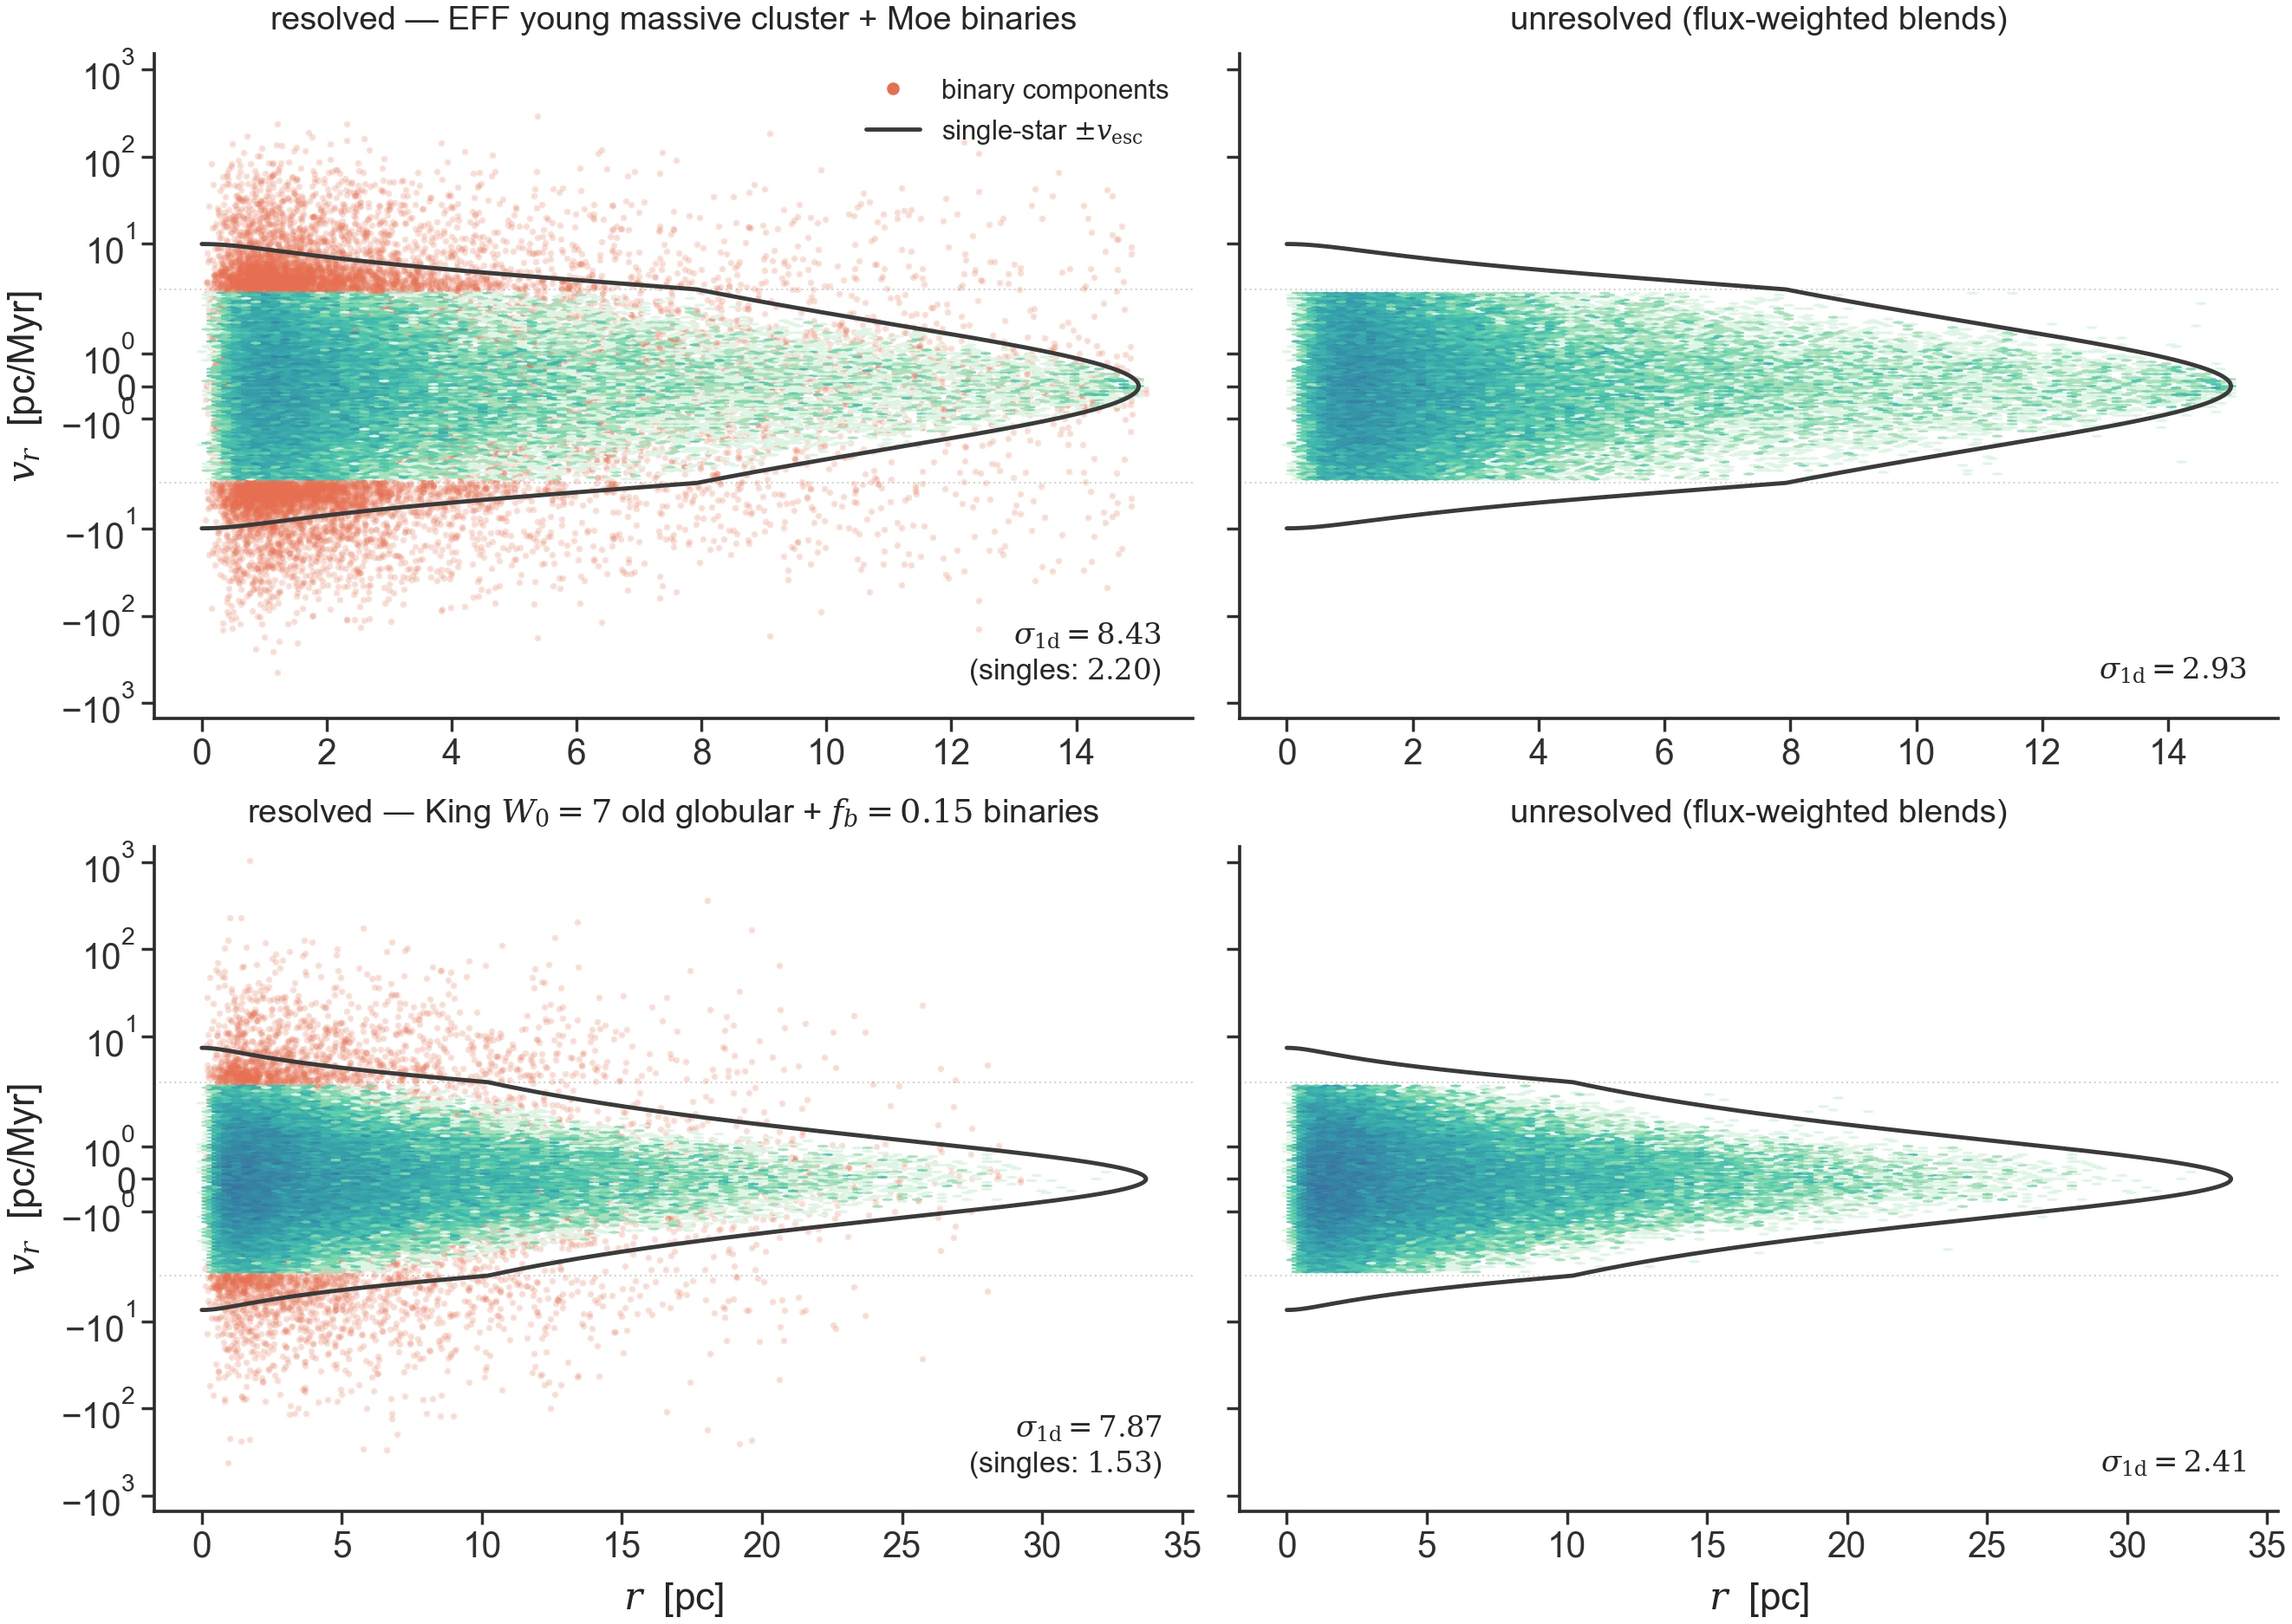
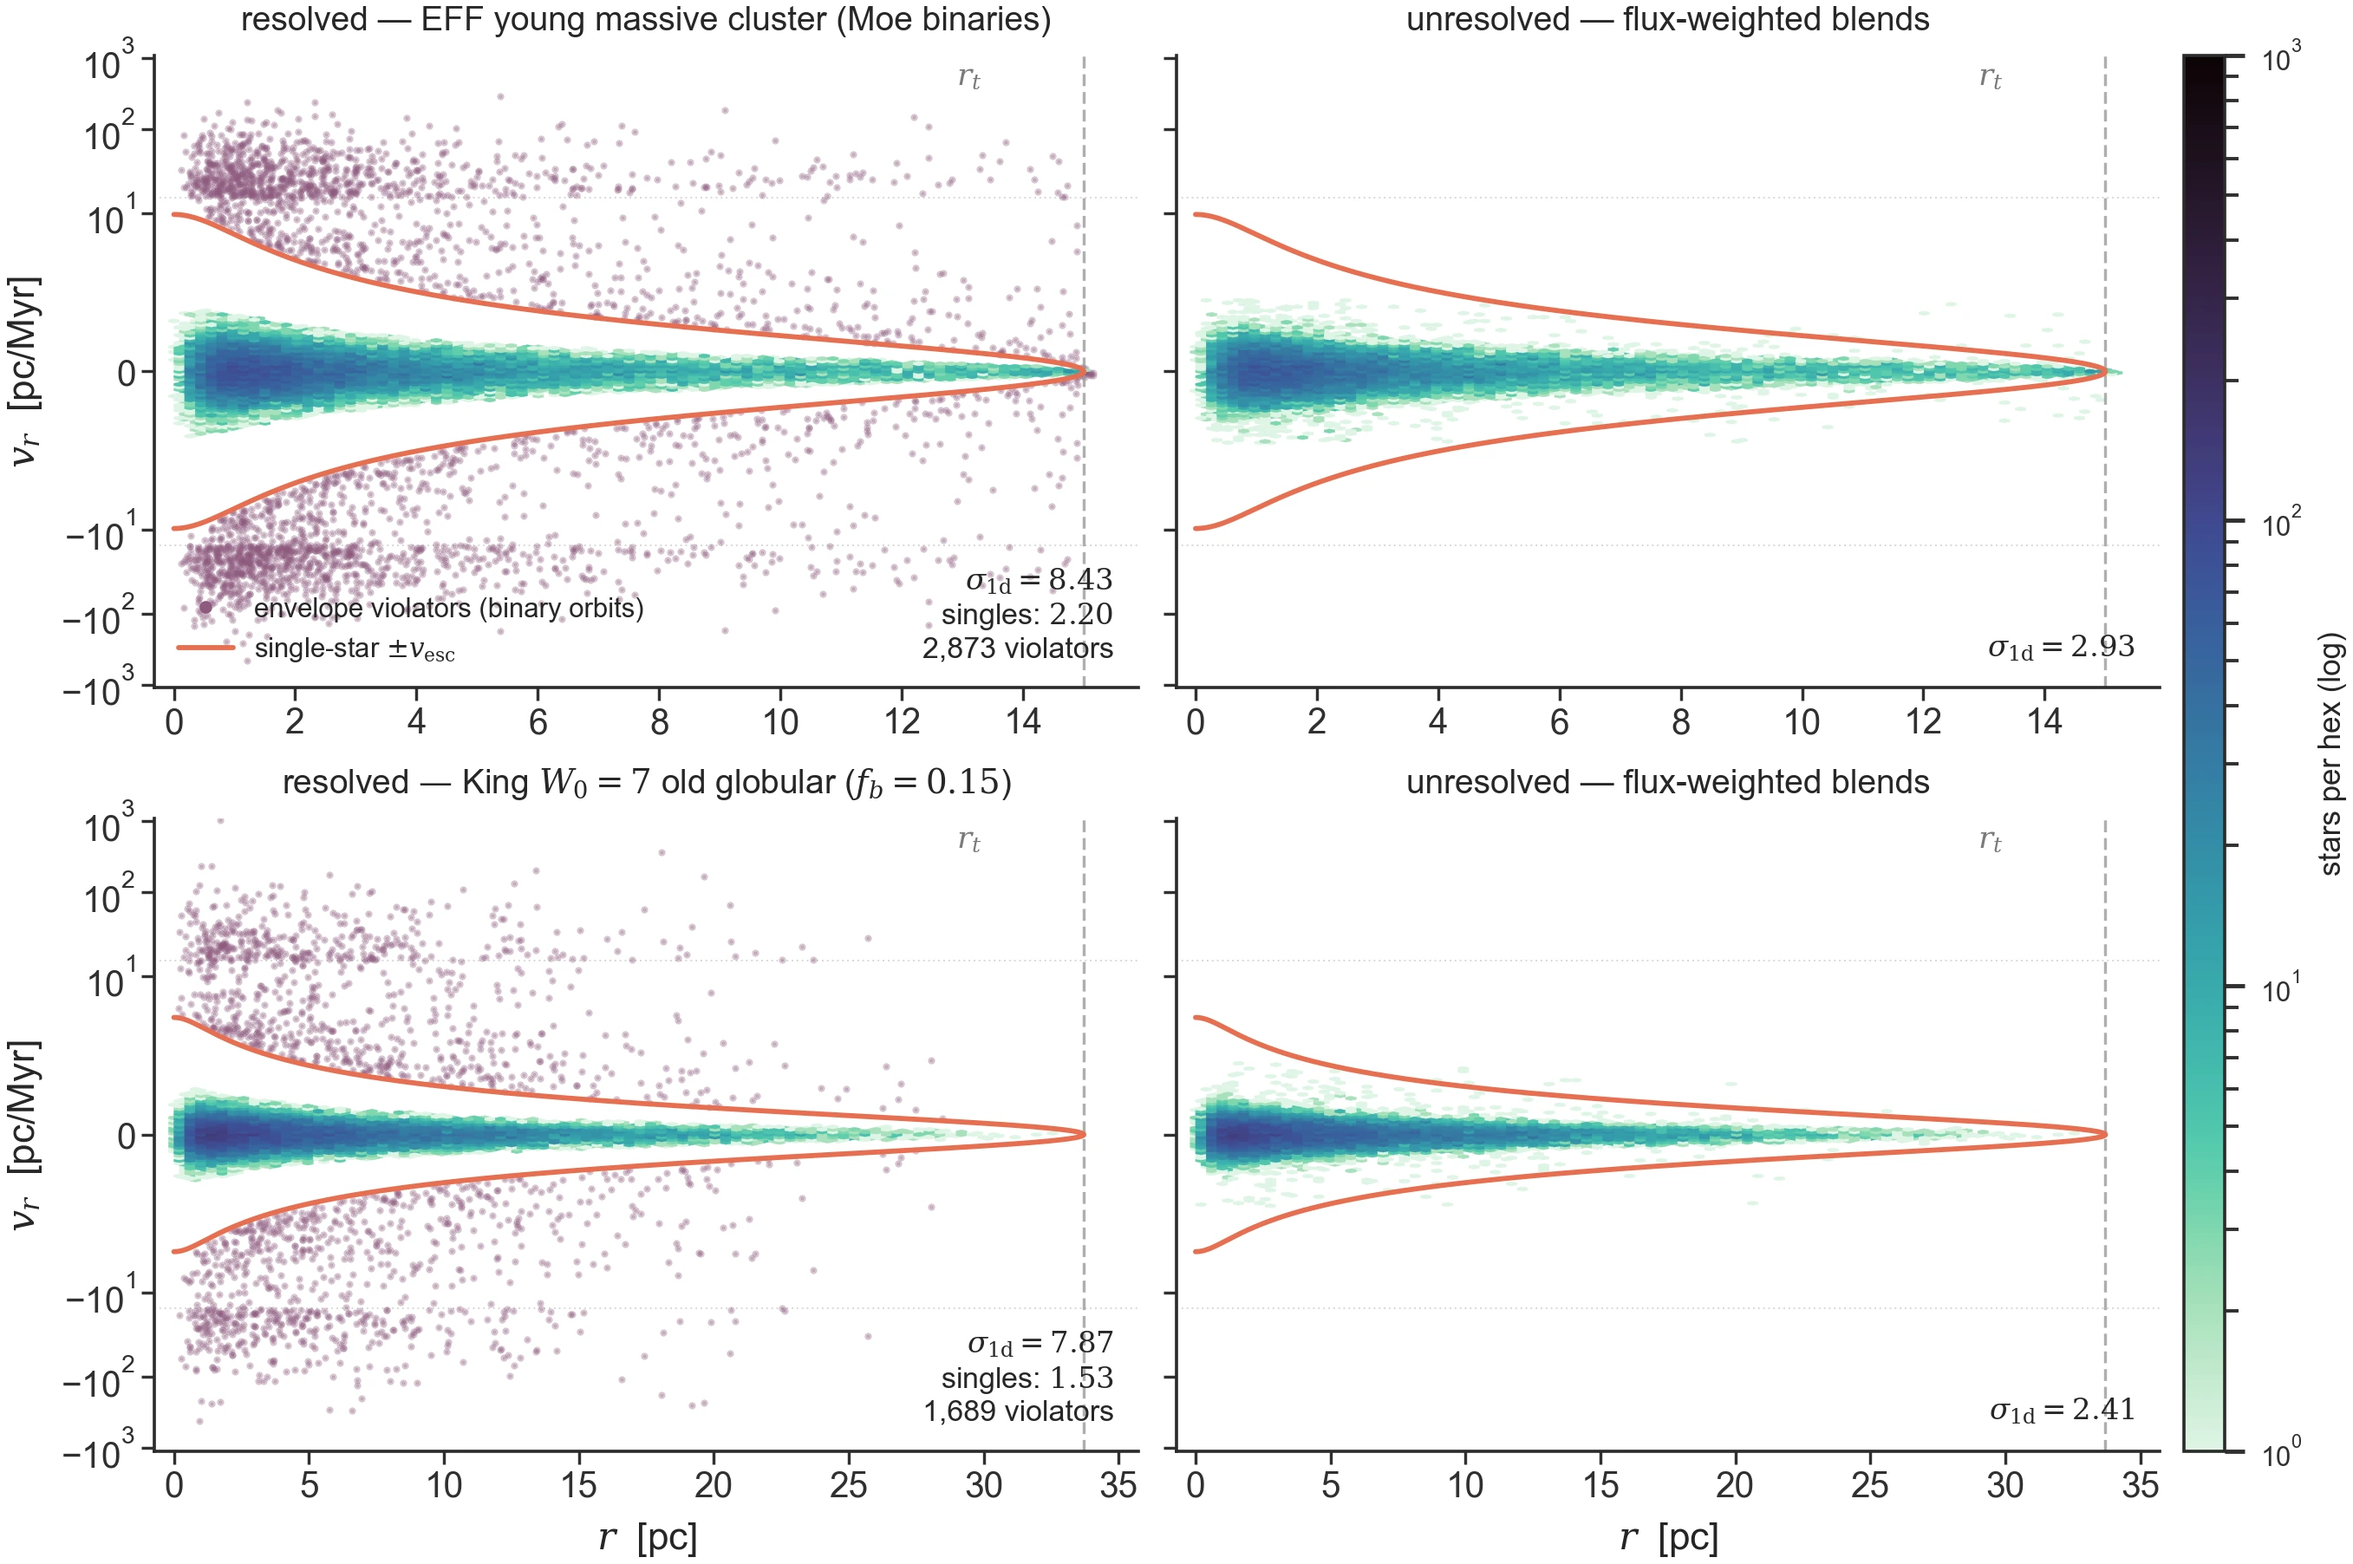
fix(icviz): F12 restyle per Anna — F11 visual language + violator semantics
- Coral +/- v_esc envelopes, shared log colorbar, grey dashed r_t markers:
  the binary figure now speaks the same visual language as the single-
  population phase plot.
- Binaries plum (#8E5A7F), not orange (envelope owns coral).
- DATA-HONESTY fix from self-review: the old +/-3.2 hexbin extent silently
  clipped bound singles with |v_r| in (3.2, v_esc~10]. The linear zone now
  spans the full envelope (linthresh 11), and the plum scatter marks ONLY
  true envelope violators (|v_r| > v_esc(r)) with in-panel counts (2,873 EFF
  / 1,689 King) — crisper semantics: those stars CANNOT be bound singles.
- Legend moved off the r_t annotation; caption updated incl. the real
  blend-leak subtlety (near-equal-luminosity pairs keep ~half their orbital
  velocity, so a few blends still exceed the envelope).

Docs gate PASS; ruff clean.

diff --git a/laboratory/icviz/binaries_phase.py b/laboratory/icviz/binaries_phase.py
@@ -88,16 +88,19 @@ def build_binary_phase_space() -> plt.Figure:
 
     setup_style()
     fig, axes = plt.subplots(
-        2, 2, figsize=(7.6, 5.4), constrained_layout=True, sharey="row"
+        2, 2, figsize=(7.8, 5.2), constrained_layout=True,
+        sharey=True, sharex="row",
     )
     cmap = sns.color_palette("mako_r", as_cmap=True)
     hex_norm = LogNorm(vmin=1, vmax=1e3)
+    env_color = "#E76F51"   # same coral as the single-population phase plot
+    binary_color = "#8E5A7F"  # plum (palette NEGATIVE) — distinct from teal/coral
     key = jax.random.PRNGKey(SEED)
     k_eff, k_king = jax.random.split(key)
 
     populations = [
         (
-            "EFF young massive cluster + Moe binaries",
+            "EFF young massive cluster (Moe binaries)",
             EFFProfile(a=1.0, gamma=4.0, r_t=15.0),
             EFFVelocityDF(a=1.0, gamma=4.0, r_t=15.0),
             MoeCompanions(),
@@ -105,7 +108,7 @@ def build_binary_phase_space() -> plt.Figure:
             15.0,
         ),
         (
-            r"King $W_0=7$ old globular + $f_b = 0.15$ binaries",
+            r"King $W_0{=}7$ old globular ($f_b = 0.15$)",
             KingProfile.from_W0_rc(W0=7.0, r_c=1.0),
             KingVelocityDF(W0=7.0, r_c=1.0),
             IndependentCompanions(
@@ -119,80 +122,87 @@ def build_binary_phase_space() -> plt.Figure:
         ),
     ]
 
+    hb = None
     for row, (title, prof, df, companions, k, r_max_in) in enumerate(populations):
         ic = build_binary_cluster(
             prof, df, Maschberger(), companions, Systems(_N_SYS), k, units=STELLAR
         )
         M_tot = float(jnp.sum(ic.masses))
-        r_max = float(getattr(prof, "r_t", r_max_in) or r_max_in)
+        r_t = float(getattr(prof, "r_t", r_max_in) or r_max_in)
+        r_max = r_t * 1.06
 
         # single-star escape envelope in THIS population's realized mass
-        r_grid = np.linspace(1e-4, r_max, 6000)
+        r_grid = np.linspace(1e-4, r_t, 6000)
         psi = _psi_from_density(prof, r_grid, M_tot)
         env = np.sqrt(2.0 * np.clip(psi, 0.0, None))
 
         is_pair = np.bincount(np.array(ic.primordial_system_id)) > 1
         in_binary = is_pair[np.array(ic.primordial_system_id)]
 
-        # --- resolved -----------------------------------------------------
-        ax = axes[row][0]
         pos, vel = np.array(ic.positions), np.array(ic.velocities)
         r, v_r = _signed_vr(pos, vel)
-        # scatter UNDER the hexbin: the punctures live outside the hex extent,
-        # so they stay visible while the cluster lens stays readable on top.
-        ax.plot(
-            r[in_binary], v_r[in_binary], ".", ms=1.1, color="#E76F51", alpha=0.22,
-            rasterized=True, zorder=1,
-        )
-        ax.hexbin(
-            r[~in_binary], v_r[~in_binary], gridsize=95, norm=hex_norm, cmap=cmap,
-            mincnt=1, linewidths=0.1, extent=(0.0, r_max, -3.2, 3.2), zorder=2,
-        )
-        ax.plot(r_grid, env, color="#3A3A3A", lw=1.0)
-        ax.plot(r_grid, -env, color="#3A3A3A", lw=1.0)
-        sigma = float(np.std(vel[:, 2]))
-        sigma_single = float(np.std(vel[~in_binary, 2]))
-        ax.text(
-            0.97, 0.06,
-            rf"$\sigma_{{1\mathrm{{d}}}} = {sigma:.2f}$"
-            "\n"
-            rf"(singles: ${sigma_single:.2f}$)",
-            transform=ax.transAxes, ha="right", fontsize=7.0,
-        )
-        ax.set_title(f"resolved — {title}", fontsize=7.9)
-        ax.set_ylabel(r"$v_r$  [pc/Myr]")
-        if row == 1:
-            ax.set_xlabel(r"$r$  [pc]")
-        polish_axes(ax)
-
-        # --- unresolved ----------------------------------------------------
-        ax = axes[row][1]
         b_pos, b_vel = _blend_unresolved(ic)
         r_b, v_rb = _signed_vr(b_pos, b_vel)
-        ax.hexbin(
-            r_b, v_rb, gridsize=95, norm=hex_norm, cmap=cmap, mincnt=1,
-            linewidths=0.1, extent=(0.0, r_max, -3.2, 3.2),
-        )
-        ax.plot(r_grid, env, color="#3A3A3A", lw=1.0)
-        ax.plot(r_grid, -env, color="#3A3A3A", lw=1.0)
+
+        sigma = float(np.std(vel[:, 2]))
+        sigma_single = float(np.std(vel[~in_binary, 2]))
         sigma_b = float(np.std(b_vel[:, 2]))
-        ax.text(
-            0.97, 0.06, rf"$\sigma_{{1\mathrm{{d}}}} = {sigma_b:.2f}$",
-            transform=ax.transAxes, ha="right", fontsize=7.0,
-        )
-        ax.set_title("unresolved (flux-weighted blends)", fontsize=7.9)
-        if row == 1:
-            ax.set_xlabel(r"$r$  [pc]")
-        polish_axes(ax)
 
-        for a in axes[row]:
-            a.set_yscale("symlog", linthresh=3.0)
-            a.set_ylim(-1500, 1500)
-            for y in (3.0, -3.0):
-                a.axhline(y, color="#CFCFCF", lw=0.4, ls=(0, (1, 2)), zorder=0)
+        # Envelope violators: |v_r| above the local single-star v_esc — the
+        # stars that CANNOT be bound singles (binary-orbital contaminants).
+        # Everything else (singles AND envelope-respecting binary components)
+        # belongs to the population hexbin; the linear zone spans the full
+        # envelope so no bound star is silently clipped.
+        env_at = np.interp(r, r_grid, env)
+        violator = np.abs(v_r) > env_at * 1.02
+        n_viol = int(violator.sum())
 
-    # shared legend proxies on the first panel
-    axes[0][0].plot([], [], ".", ms=4, color="#E76F51", label="binary components")
-    axes[0][0].plot([], [], color="#3A3A3A", lw=1.0, label=r"single-star $\pm v_{\rm esc}$")
-    axes[0][0].legend(frameon=False, fontsize=6.4, loc="upper right")
+        panels = [
+            (axes[row][0], f"resolved — {title}",
+             dict(hex_xy=(r[~violator], v_r[~violator]),
+                  scatter=(r[violator], v_r[violator]),
+                  sigma_text=(rf"$\sigma_{{1\mathrm{{d}}}} = {sigma:.2f}$"
+                              "\n" + rf"singles: ${sigma_single:.2f}$"
+                              "\n" + rf"{n_viol:,} violators"))),
+            (axes[row][1], "unresolved — flux-weighted blends",
+             dict(hex_xy=(r_b, v_rb), scatter=None,
+                  sigma_text=rf"$\sigma_{{1\mathrm{{d}}}} = {sigma_b:.2f}$")),
+        ]
+        for ax, ptitle, d in panels:
+            if d["scatter"] is not None:
+                ax.plot(*d["scatter"], ".", ms=1.4, color=binary_color,
+                        alpha=0.35, rasterized=True, zorder=1)
+            hb = ax.hexbin(
+                *d["hex_xy"], gridsize=(90, 55), norm=hex_norm, cmap=cmap,
+                mincnt=1, linewidths=0.1, extent=(0.0, r_max, -11.0, 11.0),
+                zorder=2,
+            )
+            ax.plot(r_grid, env, color=env_color, lw=1.2, zorder=3)
+            ax.plot(r_grid, -env, color=env_color, lw=1.2, zorder=3)
+            ax.axvline(r_t, color="#9A9A9A", lw=0.7, ls=(0, (4, 2)), alpha=0.8)
+            ax.annotate(r"$r_t$", xy=(r_t, 400), xytext=(r_t * 0.86, 430),
+                        fontsize=7.4, color="#7A7A7A")
+            ax.text(0.975, 0.04, d["sigma_text"], transform=ax.transAxes,
+                    ha="right", va="bottom", fontsize=7.0)
+            ax.set_title(ptitle, fontsize=8.0)
+            ax.set_yscale("symlog", linthresh=11.0, linscale=2.2)
+            ax.set_ylim(-1100, 1100)
+            ax.set_xlim(-r_max * 0.02, r_max)
+            for y in (11.0, -11.0):
+                ax.axhline(y, color="#D8D8D8", lw=0.4, ls=(0, (1, 2)), zorder=0)
+            polish_axes(ax)
+        axes[row][0].set_ylabel(r"$v_r$  [pc/Myr]")
+
+    for ax in axes[1]:
+        ax.set_xlabel(r"$r$  [pc]")
+
+    # legend proxies (first panel), colorbar (shared, like the single-pop figure)
+    axes[0][0].plot([], [], ".", ms=4, color=binary_color,
+                    label="envelope violators (binary orbits)")
+    axes[0][0].plot([], [], color=env_color, lw=1.2,
+                    label=r"single-star $\pm v_{\rm esc}$")
+    axes[0][0].legend(frameon=False, fontsize=6.4, loc="lower left")
+    cb = fig.colorbar(hb, ax=axes, pad=0.012, aspect=34)
+    cb.set_label("stars per hex (log)", fontsize=7.2)
+    cb.ax.tick_params(labelsize=6.4)
     return fig

diff --git a/docs/website/10-theory/imfs/binary.md b/docs/website/10-theory/imfs/binary.md
@@ -36,17 +36,20 @@ interval shrinks below the bias and excludes the true slope.
 :width: 100%
 
 Binaries in $(r, v_r)$ phase space, and why they lie to your dispersion
-(seed 21, $4\times10^4$ systems each; symlog velocity axis). **Left column
-(resolved):** binary orbital motion (coral) punctures the single-star escape
-envelope by up to *two orders of magnitude* — the classic high-velocity
-contaminants. Measured $\sigma_{1\mathrm{d}}$: 8.4 vs a singles-only 2.2
-(EFF + Moe, top) and 7.9 vs 1.5 (King + $f_b = 0.15$, bottom).
-**Right column (unresolved):** each binary photometrically blended (COM
-position, Tout-ZAMS flux-weighted velocity) — the punctures vanish, the
-population *looks* bound and clean, but the measured dispersion is still
-silently inflated (2.93 vs 2.20; 2.41 vs 1.53). That hidden pedestal is
-exactly the mechanism behind the binary-blind mass bias demonstrated on this
-page. Regenerate: `python -m laboratory.icviz --only binary-phase-space`.
+(seed 21, $4\times10^4$ systems each; symlog wings beyond
+$|v_r| = 11$ pc/Myr). **Left column (resolved):** plum points are
+**envelope violators** — stars above the local single-star
+$\pm v_{\rm esc}$ that cannot be bound singles: 2,873 (EFF + Moe, top) and
+1,689 (King + $f_b = 0.15$, bottom) contaminants reaching hundreds of
+pc/Myr, inflating $\sigma_{1\mathrm{d}}$ to 8.4 (singles: 2.2) and 7.9
+(singles: 1.5). **Right column (unresolved):** each binary photometrically
+blended (COM position, Tout-ZAMS flux-weighted velocity) — the violator
+clouds all but vanish and the population *looks* clean, yet the measured
+dispersion stays silently inflated (2.93 vs 2.20; 2.41 vs 1.53) — and the
+few blend hexes still leaking past the envelope are near-equal-luminosity
+pairs that keep half their orbital velocity. That hidden pedestal is exactly
+the mechanism behind the binary-blind mass bias demonstrated on this page.
+Regenerate: `python -m laboratory.icviz --only binary-phase-space`.
 ```
 
 ## The Maschberger (2013) functional form
